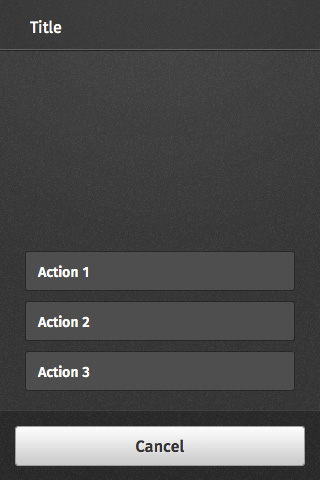
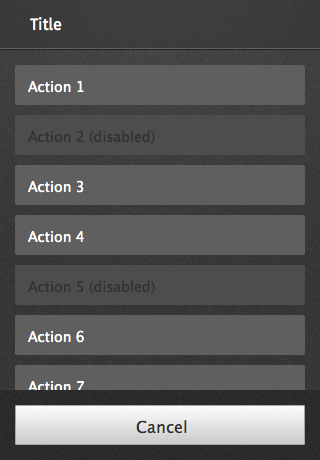
updated example screen captures

diff --git a/building-blocks/action-menu.md b/building-blocks/action-menu.md
@@ -23,7 +23,7 @@ An action menu presents a list of actions, related to the app's content, from wh
   <section class="example">
     <img src="../images/BB/action_menu.jpg" alt="Action menu (Image replacing code)"/>
     <article class="full frame">
-      <iframe src="../css/BB/style/action_menu" height="460px"></iframe>
+      <iframe src="../css/BB/style/action_menu" width="320px" height="460px"></iframe>
     </article>
   </section>
 
